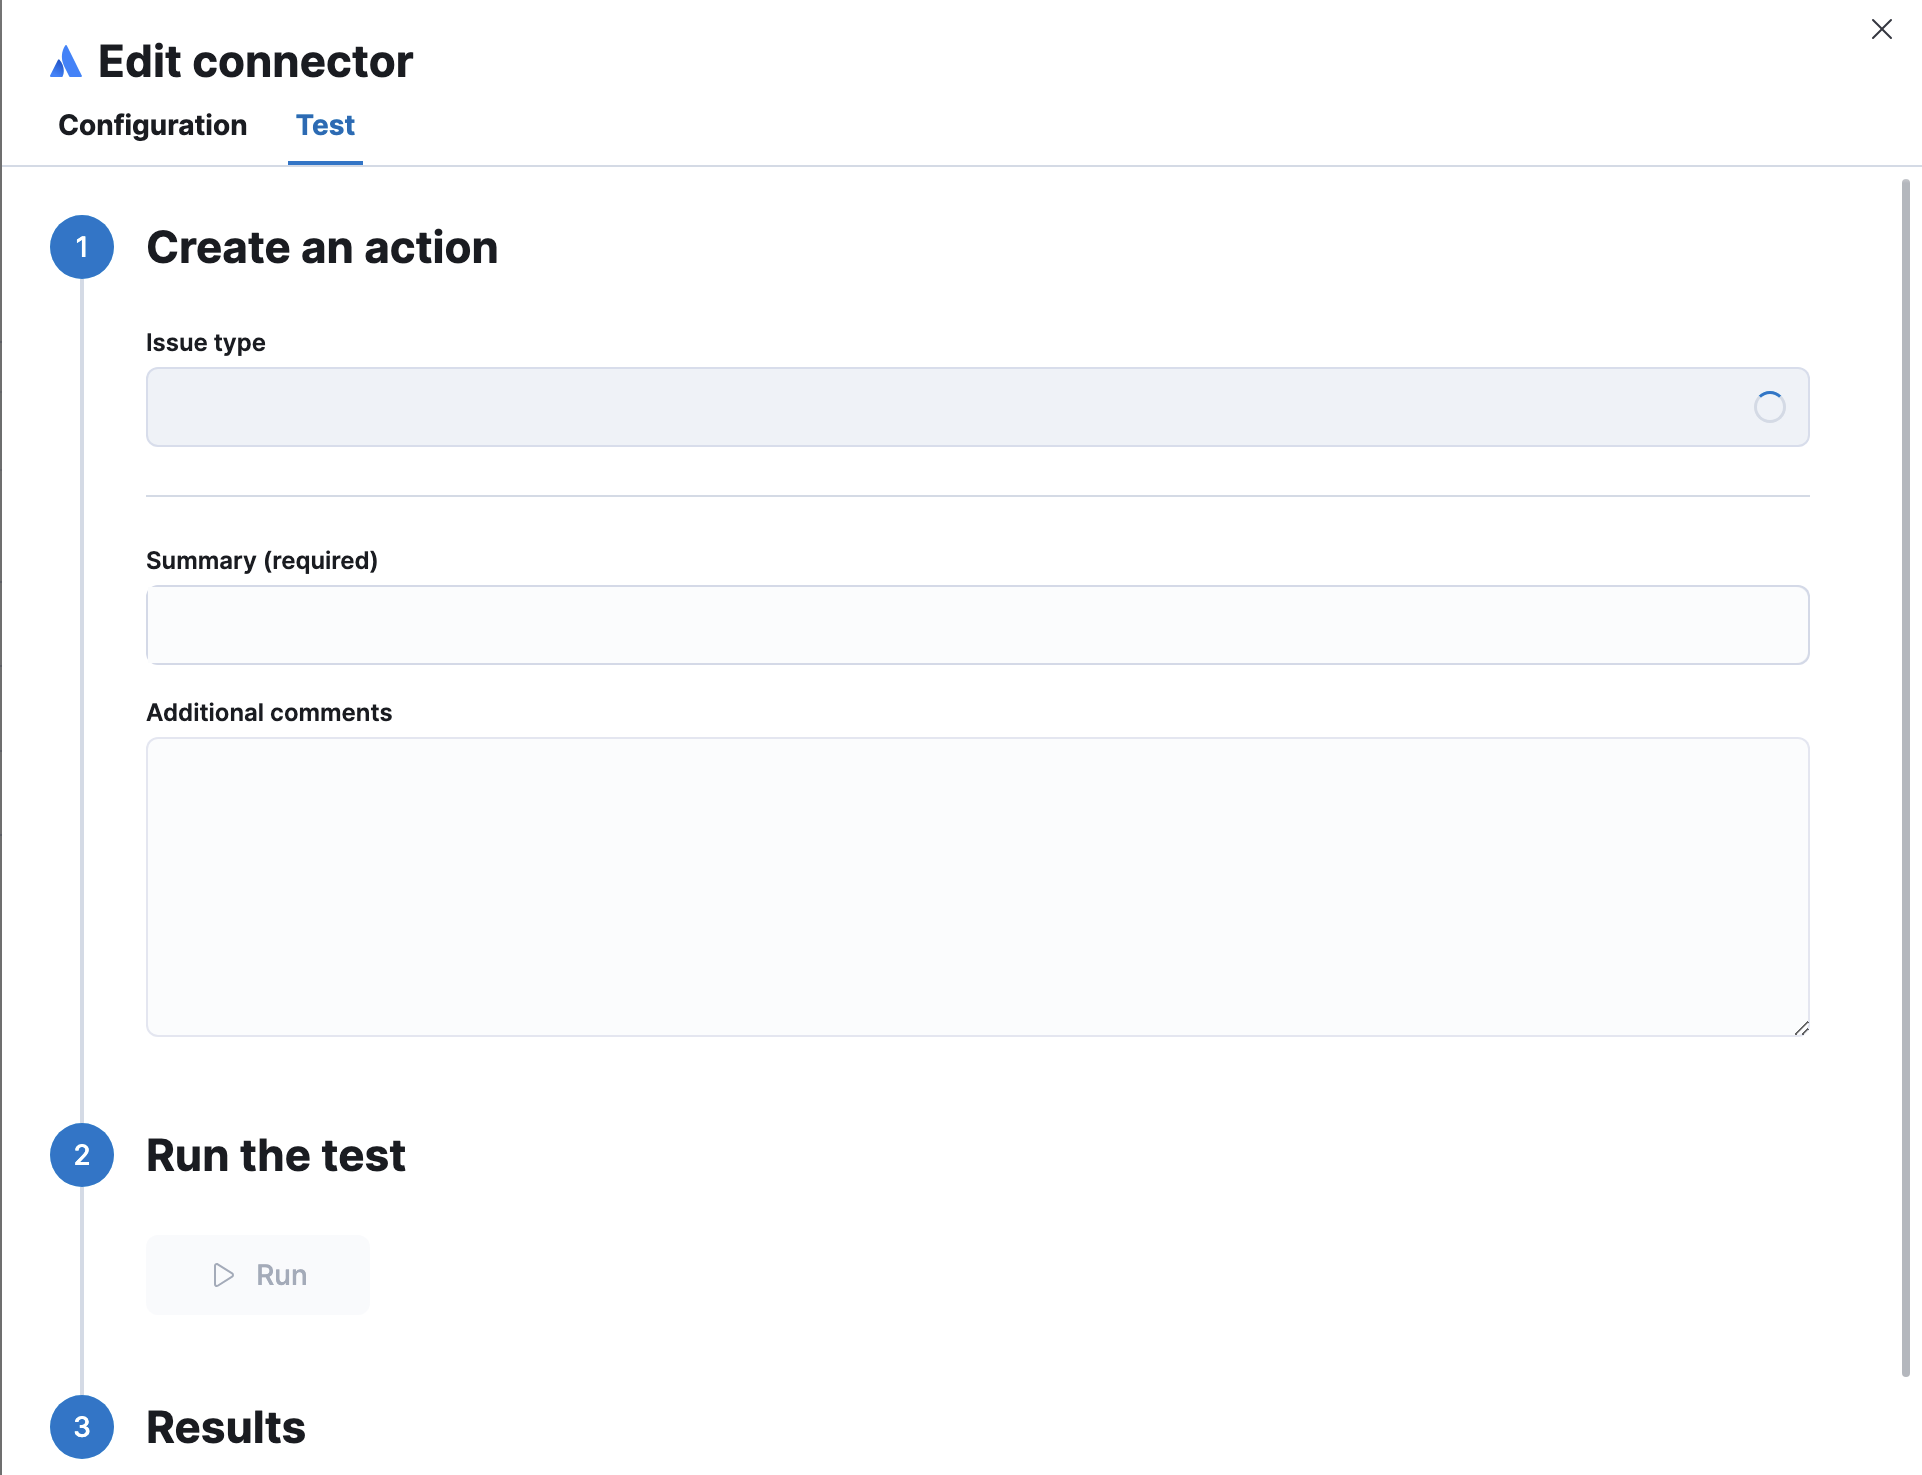
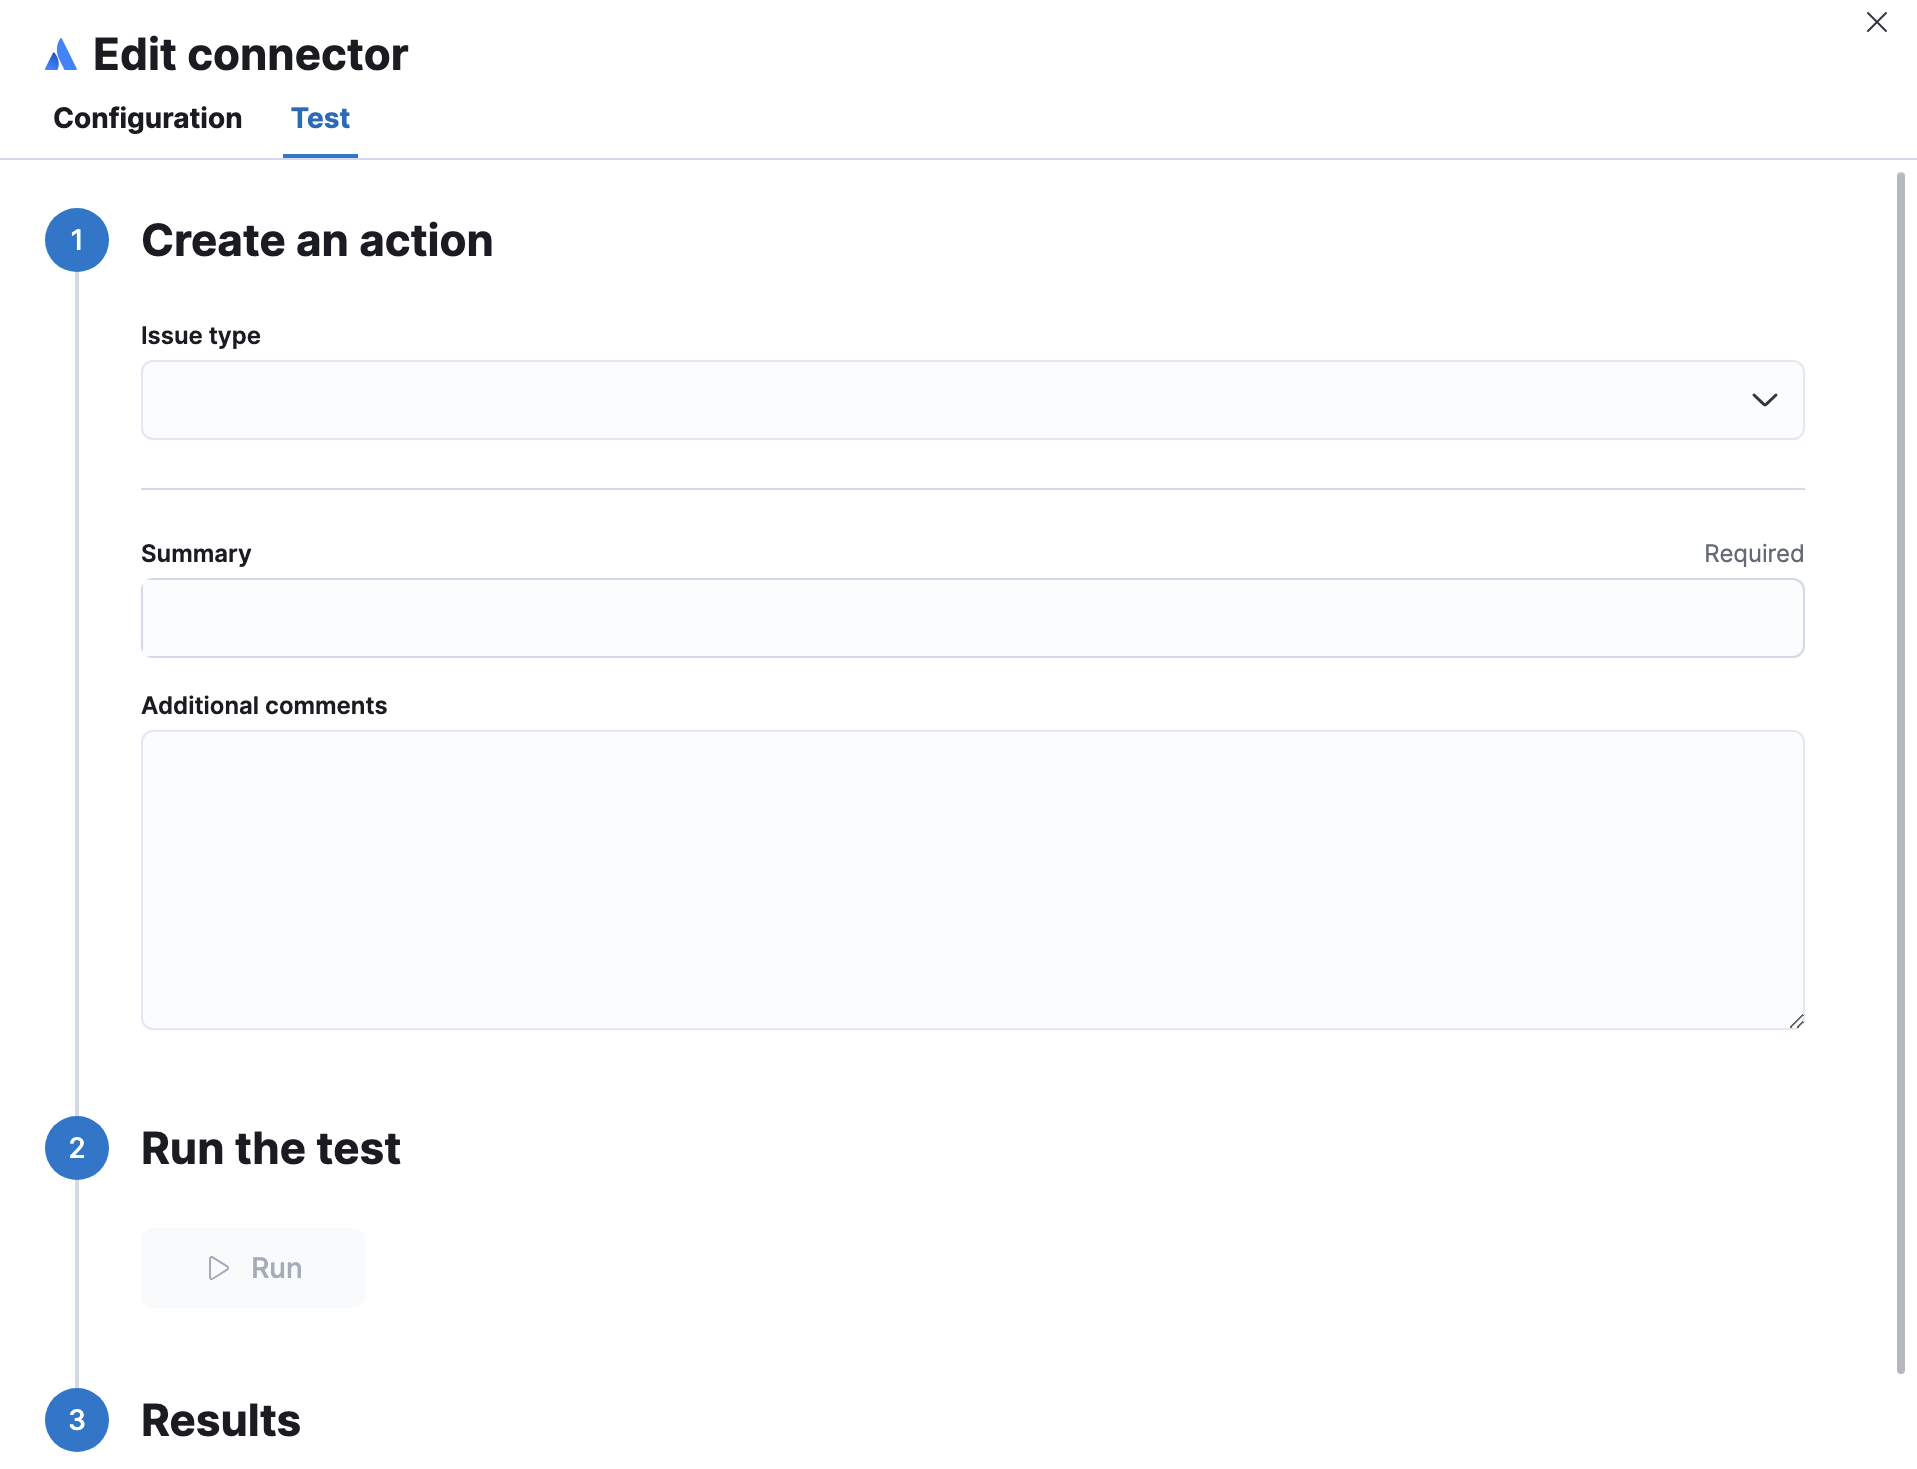
[Connectors][Jira] Edits formatting for required field (#172419)

diff --git a/x-pack/plugins/stack_connectors/public/connector_types/jira/jira_params.tsx b/x-pack/plugins/stack_connectors/public/connector_types/jira/jira_params.tsx
@@ -17,6 +17,7 @@ import {
   EuiFlexGroup,
   EuiFlexItem,
   EuiSpacer,
+  EuiText,
 } from '@elastic/eui';
 import type { ActionParamsProps } from '@kbn/triggers-actions-ui-plugin/public';
 import {
@@ -283,8 +284,15 @@ const JiraParamsFields: React.FunctionComponent<ActionParamsProps<JiraActionPara
             incident.summary !== undefined
           }
           label={i18n.translate('xpack.stackConnectors.components.jira.summaryFieldLabel', {
-            defaultMessage: 'Summary (required)',
+            defaultMessage: 'Summary',
           })}
+          labelAppend={
+            <EuiText size="xs" color="subdued">
+              {i18n.translate('xpack.stackConnectors.components.jira.summaryFieldRequiredLabel', {
+                defaultMessage: 'Required',
+              })}
+            </EuiText>
+          }
         >
           <TextFieldWithMessageVariables
             index={index}
